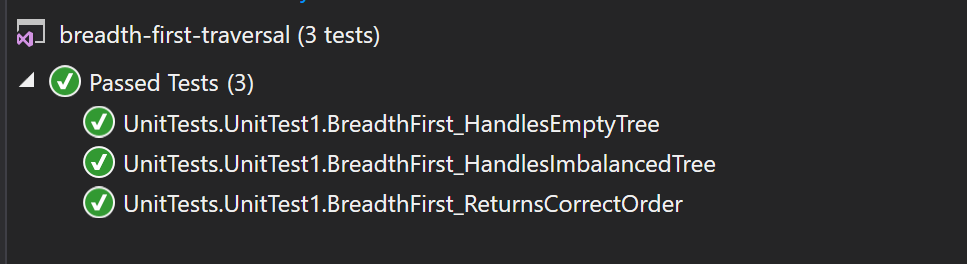
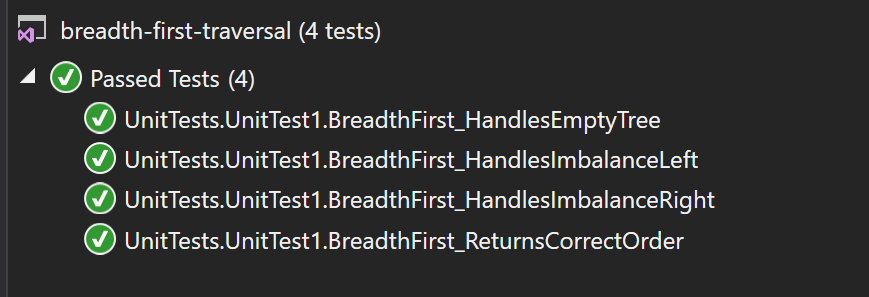
added imbalance-left and imbalance-right unit tests

Changed region(s): [[0.0, 0.0303, 0.8389, 0.8788]]

diff --git a/breadth-first-traversal/UnitTests/UnitTest1.cs b/breadth-first-traversal/UnitTests/UnitTest1.cs
@@ -31,10 +31,10 @@ namespace UnitTests
         }
 
         /// <summary>
-        /// verifies that BreadthFirst returns values in correct order
+        /// verifies that BreadthFirst handles imbalance to left
         /// </summary>
         [Fact]
-        public void BreadthFirst_HandlesImbalancedTree()
+        public void BreadthFirst_HandlesImbalanceLeft()
         {
             BinaryTree tree = new BinaryTree();
             tree.Root = new Node(1);
@@ -46,6 +46,26 @@ namespace UnitTests
             tree.Root.Right.Right = new Node(7);
 
             int[] values = new int[] { 1, 2, 3, 4, /*5,*/ 6, 7 };
+
+            Assert.Equal(values, Program.BreadthFirst(tree));
+        }
+
+        /// <summary>
+        /// verifies that BreadthFirst handles imbalance to right
+        /// </summary>
+        [Fact]
+        public void BreadthFirst_HandlesImbalanceRight()
+        {
+            BinaryTree tree = new BinaryTree();
+            tree.Root = new Node(1);
+            tree.Root.Left = new Node(2);
+            tree.Root.Right = new Node(3);
+            tree.Root.Left.Left = new Node(4);
+            tree.Root.Left.Right = new Node(5);
+            //tree.Root.Right.Left = new Node(6);
+            tree.Root.Right.Right = new Node(7);
+
+            int[] values = new int[] { 1, 2, 3, 4, 5, /*6,*/ 7 };
 
             Assert.Equal(values, Program.BreadthFirst(tree));
         }
